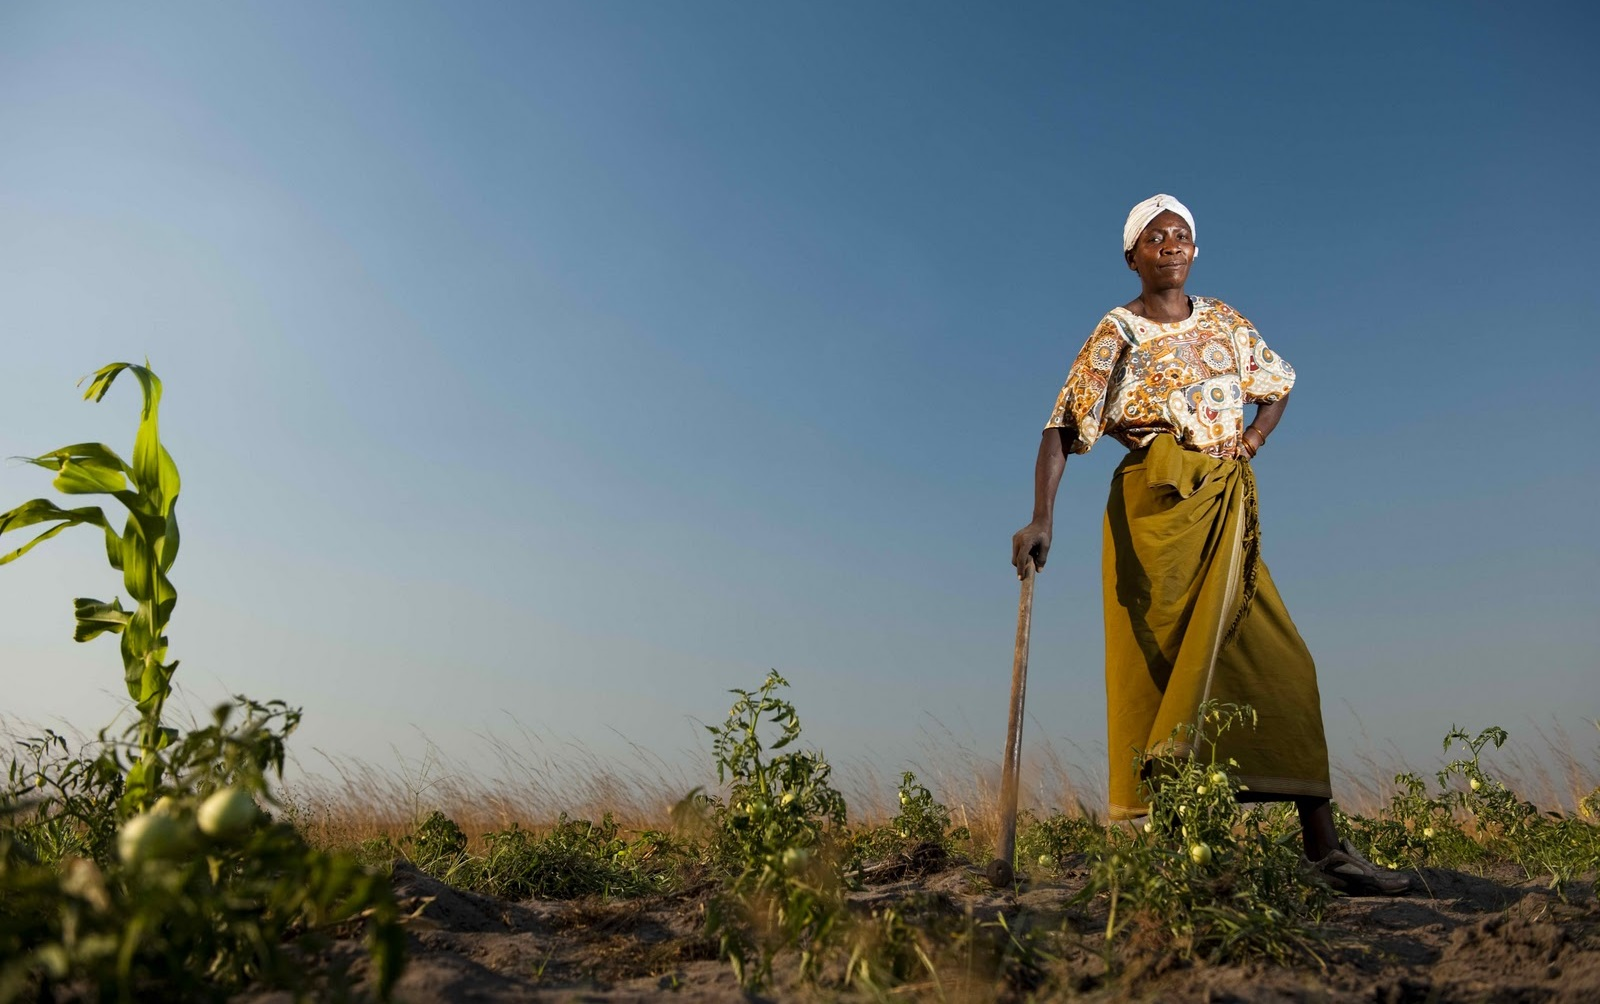
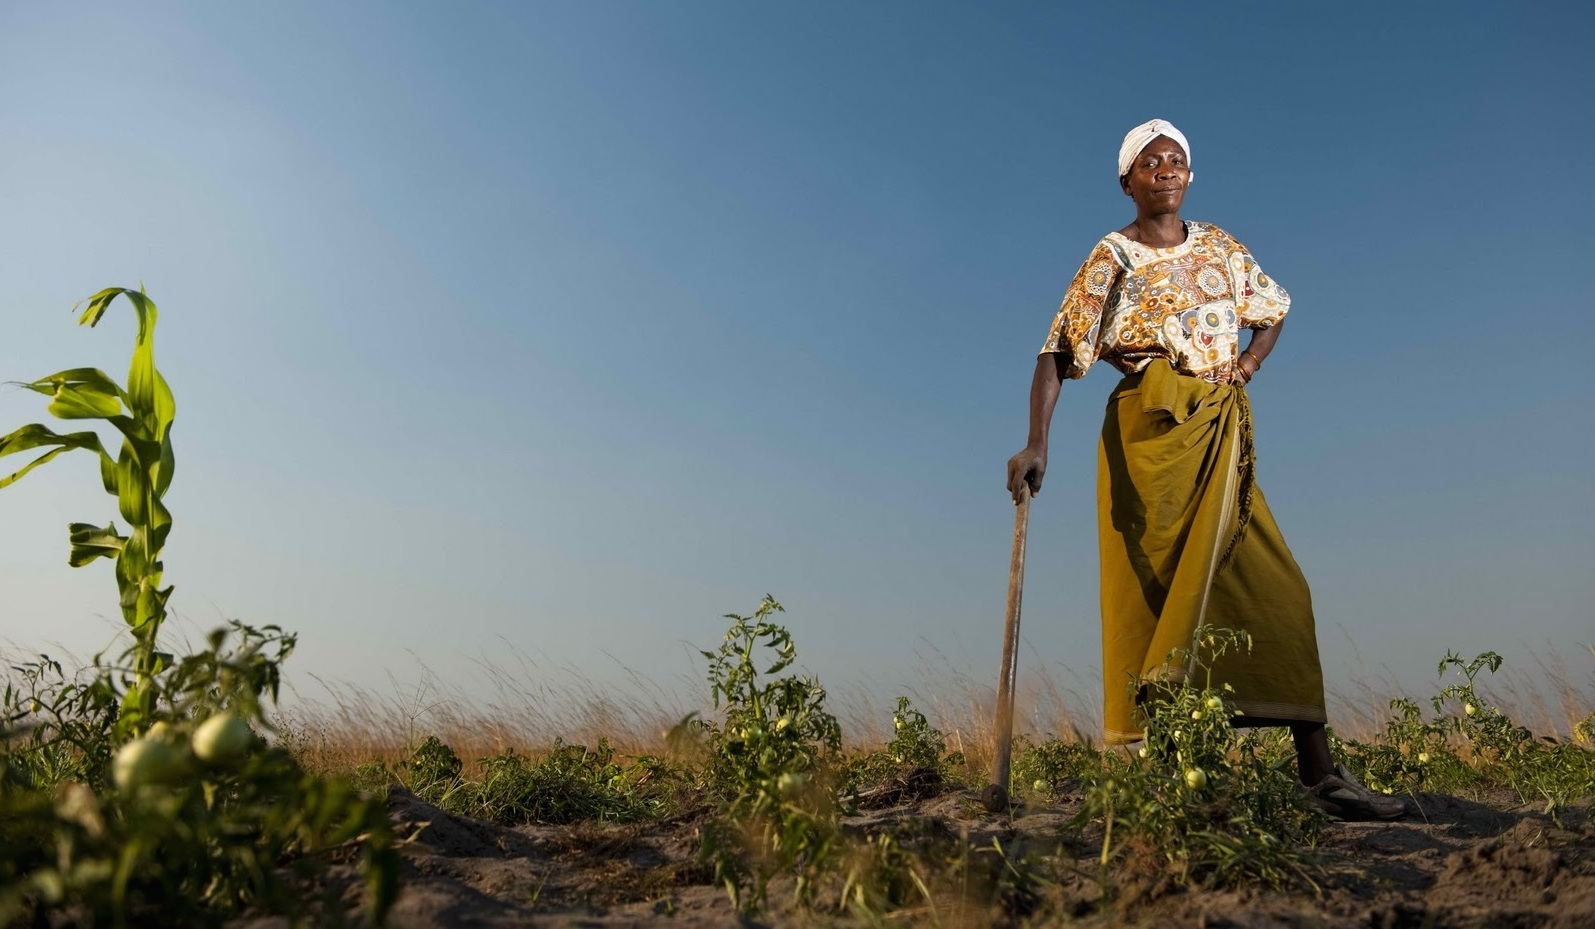
Mission Page

Changed region(s): [[0.0, 0.1249, 1.0, 0.9989]]

diff --git a/leaflet/mission/index.html b/leaflet/mission/index.html
@@ -2,13 +2,13 @@
 <html>
 <head>
 	<link href='http://fonts.googleapis.com/css?family=Raleway:400,200,100,300,500' rel='stylesheet' type='text/css'>
-	<link rel="stylesheet" type="text/css" href="style.css">
+	<link rel="stylesheet" type="text/css" href="../style.css">
 </head>
 <body id="mission">
 		<nav>
 			<div class="menubuttons">
 				<ul>
-					<li><a href="index.html">Home</a></li> 
+					<li><a href="../index.html">Home</a></li> 
 					<li><a href="mission/index.html">Mission</a></li> 
 					<li><a href="products/index.html">Products</a></li>
 					<li><a href="takeaction/index.html">Take Action</a></li>
@@ -17,14 +17,16 @@
 			</div>
 			<div class="socialmediaicons"> 
 				<ul>
-					<li><a href="http://www.youtube.com"><img id ="socialmedia" src="assets/socialmedia/Youtube.png"></a></li>
-					<li><a href="http://www.googleplus.com"><img id ="socialmedia" src="assets/socialmedia/Google+.png"></a></li>
-					<li><a href="http://www.twitter.com"><img id ="socialmedia" src="assets/socialmedia/Twitter.png"></a></li>
-					<li><a href="http://www.facebook.com"><img id ="socialmedia" src="assets/socialmedia/Facebook.png"></a></li>
+					<li><a href="http://www.youtube.com"><img id ="socialmedia" src="../assets/socialmedia/Youtube.png"></a></li>
+					<li><a href="http://www.googleplus.com"><img id ="socialmedia" src="../assets/socialmedia/Google+.png"></a></li>
+					<li><a href="http://www.twitter.com"><img id ="socialmedia" src="../assets/socialmedia/Twitter.png"></a></li>
+					<li><a href="http://www.facebook.com"><img id ="socialmedia" src="../assets/socialmedia/Facebook.png"></a></li>
 				</ul>
 			</div>
 		</nav>
-	<h1>Leaflet</h1>
-	<button class="button">Grow Good</button>
+		<div id="missionquestion">
+			<h1>What keeps you at night? </h1>
+			<p>For us at Leaflet, it was income inequality.</p>
+		</div>
 </body>
 </html>

diff --git a/leaflet/style.css b/leaflet/style.css
@@ -2,13 +2,22 @@
 	margin: 0;
 }
 
-#mission {
+#homepage {
 	background: url('assets/background.jpg');
 	margin:0 0 0 0;
 	background-size: cover;
 	font-family: 'Raleway', sans-serif;
 	background-repeat:no-repeat;
 }
+
+#mission {
+	background: url('assets/mission.jpg');
+	margin:0 0 0 0;
+	background-size: cover;
+	font-family: 'Raleway', sans-serif;
+	background-repeat:no-repeat;
+}
+
 
 body {
 	margin:0 0 0 0;
@@ -71,6 +80,27 @@ h2 {
 	text-align:center;
 }
 
+#missionquestion {
+	color:white;
+	background-color: 
+	vertical-align: middle;
+	font-size:40px;
+	margin:0 0 0 50px;
+}
+
+#missionquestion h1 {
+	float:left;
+	clear;right;
+	font-size:40px;
+	margin:100px 0 0 50px;
+}
+
+#missionquestion p {
+	float:left;
+	display:block;
+	font-size:40px;
+	margin:0px 0 0 50px;
+}
 .button {
 	text-align: center;
 	margin: 0 auto 0 auto;
